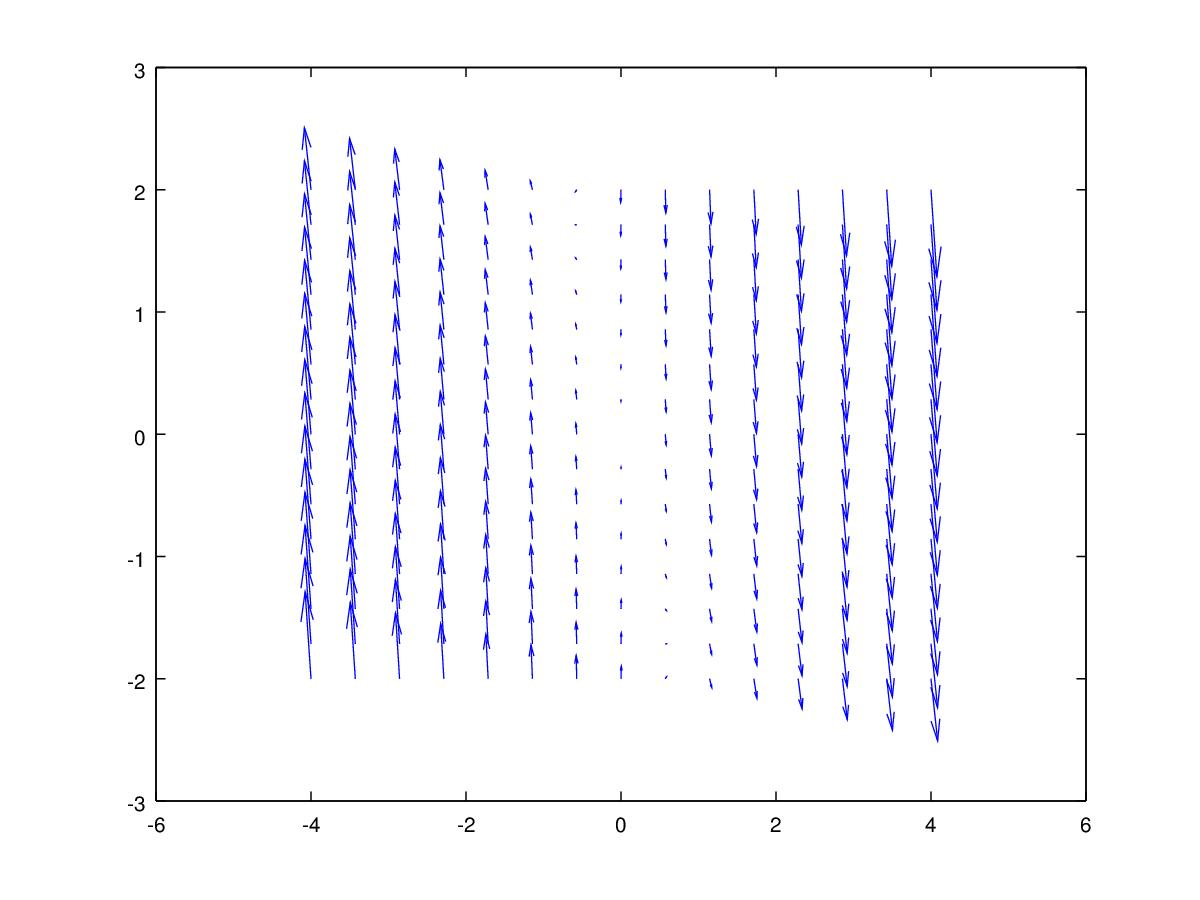
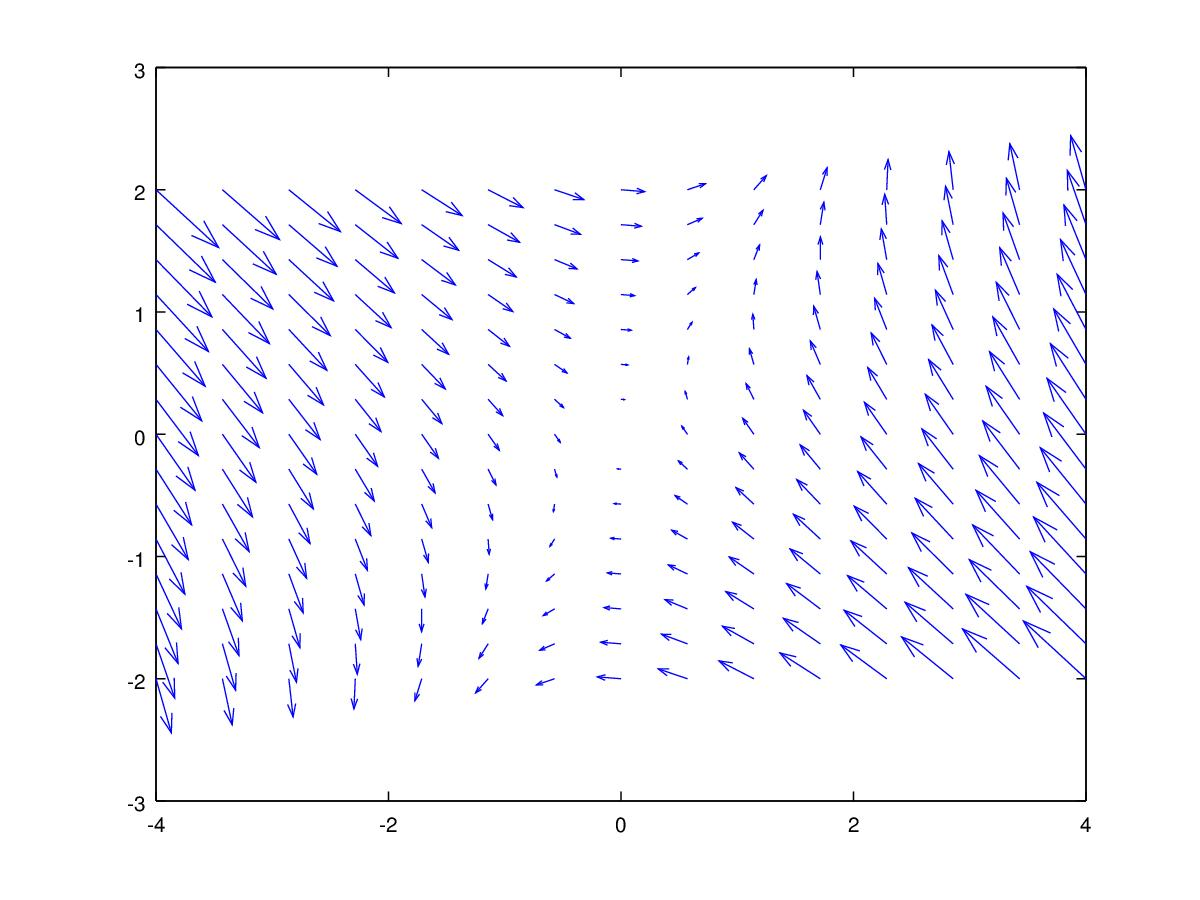
werjsa do wyslania

diff --git a/projekt1/sprawozdanie/projekt1.tex b/projekt1/sprawozdanie/projekt1.tex
@@ -10,13 +10,17 @@
 \usepackage{geometry}
 \usepackage{subfigure}
 
-\newgeometry{tmargin=1cm, bmargin=1cm, lmargin=1cm, rmargin=1cm}
+\newgeometry{tmargin=1cm, bmargin=2cm, lmargin=1cm, rmargin=1cm}
 
 \begin{document}
+	\begin{center}
+		
+		\textbf{Sprawozdanie\\TST projekt 1\\Anna Wujek}
+	\end{center}
 	
-	\paragraph{Skrypt}
+	\paragraph{Skrypt (realizowany w octave)}
 	\begin{itemize}
-		\item Skrypt konstruuje macierz A wg wzoru $A = VDV^{-1}$, gdzie $V$ - podana macierz wektorów własnych, $D$ - macierz diagonalna z podanymi wartościami własnymi. Jeśli w widmie są wartości zespolone, należy podać je w formie $\sigma(A)={(a+bi),(a-bi)}$ i zwracana jest macierz $[a,b;-b,a]$
+		\item Skrypt konstruuje macierz A wg wzoru $A = VDV^{-1}$, gdzie $V$ - podana macierz wektorów własnych, $D$ - macierz diagonalna z podanymi wartościami własnymi. Jeśli w widmie są wartości zespolone, należy podać je w formie $\sigma(A)=\{(a+bi),(a-bi)\}$ i zwracana jest macierz $[a,b;-b,a]$
 		\item Wygenerowane punkty początkowe są rozmieszczone równomiernie na okręgu o zadanym promieniu.
 		\item Trajektoria układu obliczana jest jako ciąg $x(t)=A^tx_0$, gdzie $x(0)=x_0$, $t = 0,1,2,3,...$ dla kolejnych podanych punktów początkowych $x_0$.
 		\item Wektory własne obliczane są przy pomocy funkcji \verb|eig(A)|.
@@ -27,10 +31,42 @@
 	\end{itemize}
 	
 	\paragraph{Interpretacja wartości własnych i wektorów własnych}
+	\begin{itemize}
+		
+		\item \textbf{Wektory własne $v_i$}
+		
+		Z definicji: niezerowe wektory $x$ spełniające równanie $[\mathbb{I}_n\lambda-A]x = 0$, czyli $Ax=\lambda x$
+		
+		Są to wektory, które po przemnożeniu przez macierz A, pozostają tym samym wektorem (co najwyżej przeskalowanym przez parametr $\lambda$, czyli związaną z nim wartość własną). 
+			
+		Eksperymenty w skrypcie pokazały, że wektory własne podane przy tworzeniu macierzy oraz te obliczone przez funkcję \verb|eig(A)| leżą na tych samych prostych, a różnią się jedynie długością lub zwrotem. Wniosek: macierz może mieć wiele wektorów własnych związanych z daną wartością własną, lecz będą one leżeć na tych samych prostych.
+		
+		Wyjątek stanowi sytuacja, gdy obie wartości własne są identyczne (tj. $\lambda _1 = \lambda _2$). Wtedy macierz A znaleziona przy pomocy $A = VDV^{-1}$ ma postać $[\lambda, 0; 0, \lambda]$, a wektor własny jest dowolny.
+		
+		\begin{figure}[h]
+			\begin{center}
+				\subfigure[Wektory własne podane: (0.1,0.2 ; 3.2,-0.4)]{
+					\includegraphics[width=0.3\linewidth]{img/wektory_wlasne_podane.jpg}}
+				\subfigure[Wektory własne obliczone z eig(A): ( 0.447214,0.031235;-0.894427,0.999512)]{
+					\includegraphics[width=0.3\linewidth]{img/wektory_wlasne_eig.jpg}}
+				\caption{Ilustracja wektorów własnych}
+			\end{center}
+		\end{figure}
+		
+		\item \textbf{Wartości własne $\lambda _i$}
+		
+		Z definicji: rozwiązania wielomianu charakterystycznego macierzy A, czyli $det[\mathbb{I}_n\lambda-\mathbb{A}] = 0$.
+		
+		Związane z wektorami własnymi zgodnie z $Ax=\lambda x$.
+		
+		Wartości własne są biegunami układu opisanego macierzą A i wpływają na jego dynamikę. W zależności od wartości części rzeczywistej i urojonej zmieniają stabilność układu oraz kierunek zmian stanu w czasie. 
+	\end{itemize}
+	
+
 	
 	\paragraph{Zależność dynamiki od widma macierzy A}
 	\begin{itemize}
-		\item od wartości własnych zależy kształt dynamiki układu wokół punktów osobliwych, co jest dobrze widoczne na rysunku pola wektorowego. Dla podanego zadania jedynym punktem osobliwym jest $(0,0)$. Wektory pokazują kierunek zmian na płaszczyźnie fazowej.
+		\item od wartości własnych zależy kształt dynamiki układu wokół punktów osobliwych, co jest dobrze widoczne na rysunku pola wektorowego. Dla podanego zadania jedynym punktem osobliwym jest $(0,0)$. Wektory pokazują kierunek zmian zmiennych stanu na płaszczyźnie fazowej.
 		\begin{itemize}
 			\item $\lambda _1, \lambda _2$ - rzeczywiste, mniejsze od 0 - węzeł stabilny
 			\item $\lambda _1, \lambda _2$ - rzeczywiste, większe od 0 - węzeł niestabilny
@@ -56,7 +92,13 @@
 				\caption{Pola wektorowe}
 			\end{center}
 		\end{figure}
-		\item Aby układ był stabilny, wszystkie wartości własne muszą leżeć na płaszczyźnie zespolonej w kole jednostkowym. Jeśli chociaż jedna ma moduł $>1$, układ staje się niestabilny. Jeśli obie wartości własne mają moduły $=1$, układ oscyluje na wykresie $Az(\theta), \theta \in (0,2\pi)$ i nie zbiega do żadnej wartości. Jeśli jedna z wartości ma moduł $<1$, a druga $=1$, układ nie zbiega do 0 ani nie rozbiega się do nieskończoności, tylko w zależności od punktu początkowego zbiega do różnych wartości.
+		\item Stabilność układu
+		\begin{itemize}
+			\item Aby układ był stabilny, wszystkie wartości własne muszą leżeć na płaszczyźnie zespolonej w kole jednostkowym, bo wtedy $\lim\limits_{t\rightarrow \infty}A^t = 0$.
+			\item Jeśli chociaż jedna ma moduł $>1$, układ staje się niestabilny, bo wtedy $\lim\limits_{t\rightarrow\infty}A^t = \pm\infty$.
+			\item Jeśli obie wartości własne mają moduły $=1$, układ oscyluje wokół punktu $(0,0)$ i nie zbiega do żadnej wartości.
+			\item Jeśli jedna z wartości ma moduł $<1$, a druga $=1$, układ nie zbiega do 0 ani nie rozbiega się do nieskończoności ani nie oscyluje cały czas, tylko w zależności od punktu początkowego zbiega do różnych wartości.
+		\end{itemize}  
 		\begin{figure}[h]
 			\begin{center}
 				\subfigure[$|\lambda _1|,|\lambda _2| < 1$ - stabilny]{
@@ -69,8 +111,7 @@
 					\includegraphics[width=0.4\linewidth]{img/portret_pol_oscylacje.jpg}}
 				\caption{Portrety fazowe dla różnych $\lambda$}
 			\end{center}
-		\end{figure}
-		\item Jeśli układ jest stabilny, trajektorie rozpoczynające się od punktu początkowego położonego na okręgu jednostkowym od drugiej iteracji nie wychodzą już poza $Az(\theta)$. 
+		\end{figure} 
 	\end{itemize}
 	
 	

diff --git a/projekt1/zad1.m b/projekt1/zad1.m
@@ -1,11 +1,14 @@
 close all;
+%1 jesli wyswietlac na konsole dane, 0 - tylko zrobic wykresy
 konsola = 0;
+%1 jesli widmo macierzy jest zespolone
 zespolone = 0;
-portret_okregi = 1;
+%1 jesli chcemy na jednym wykresie portret fazowy, okrag jednostkowy i Az(theta)
+portret_okregi = 0;
 
 %konstruowanie macierzy o zadanym widmie
-widmo = [-1 0.1];
-wektory_wl = [0.1 0.2 ; 3.2 -0.4];
+widmo = [-0.3 -0.5];
+wektory_wl = [0.5 1 ; 0.3 -0.7];
 A = macierz_z_widma(widmo,wektory_wl);
 
 if konsola
@@ -30,7 +33,7 @@ if konsola
 end
 
 %okreslanie zbioru punktow poczatkowych na okregu
-promien_okregu = 1;
+promien_okregu = 2;
 liczba_punktow = 10;
 p0 = generuj_punkty_pocz(promien_okregu,liczba_punktow);
 
@@ -70,7 +73,7 @@ if !any(any(imag(A)))
         f2=figure(2);
         hold on;
         set(f2,'Name','Okrag jednostkowy Az(theta)','NumberTitle','off');
-        okrag_jednostkowy(A,1);
+        okrag_jednostkowy(A,2);
         legend('okrąg Az(theta)','okrąg jednostkowy');
     end
 end
@@ -98,6 +101,7 @@ if !any(any(imag(A)))
     hold on;
     set(f5,'Name','Pole wektorowe','NumberTitle','off');
     rysuj_pole_wektorowe(pX,pY,A,5);
+    
 end
 
 

diff --git a/projekt1/rysuj_trajektorie.m b/projekt1/rysuj_trajektorie.m
@@ -1,4 +1,4 @@
-function [wektoryX wektoryY] = rysuj_trajektorie(punkty_pocz, macierzA, figura, liczba_krokow) 
+function rysuj_trajektorie(punkty_pocz, macierzA, figura, liczba_krokow) 
     
     figure(figura);
     hold on;

diff --git a/projekt1/okrag_jednostkowy.m b/projekt1/okrag_jednostkowy.m
@@ -1,4 +1,4 @@
-function a = okrag_jednostkowy(macierzA, figura) 
+function okrag_jednostkowy(macierzA, figura) 
     
     figure(figura);
     hold on;
